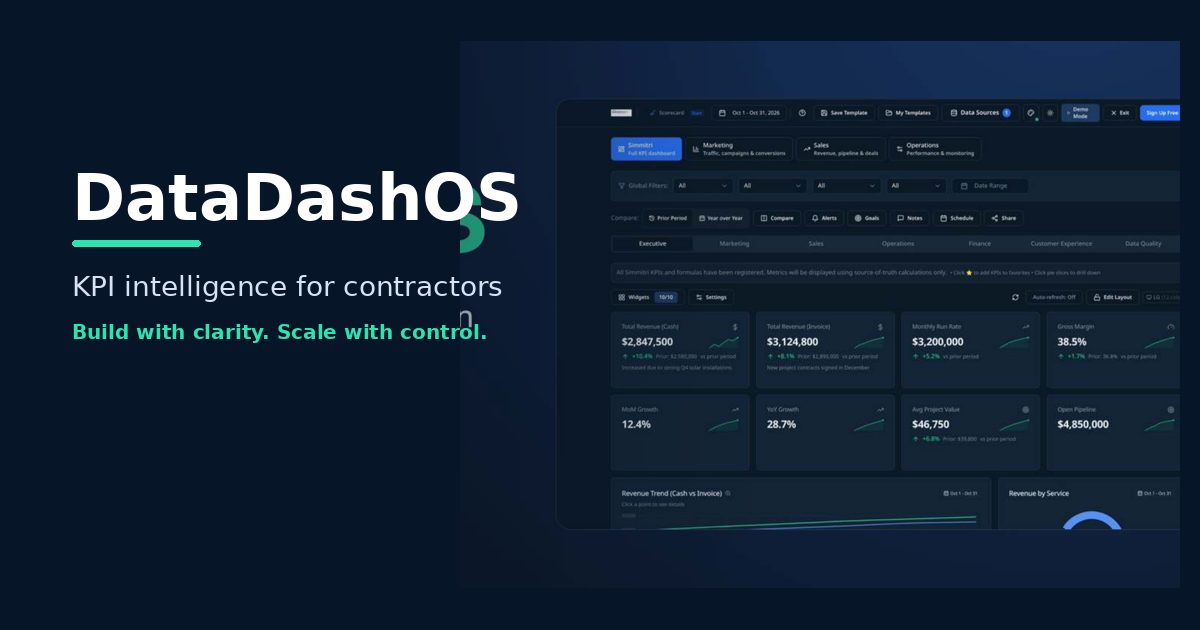
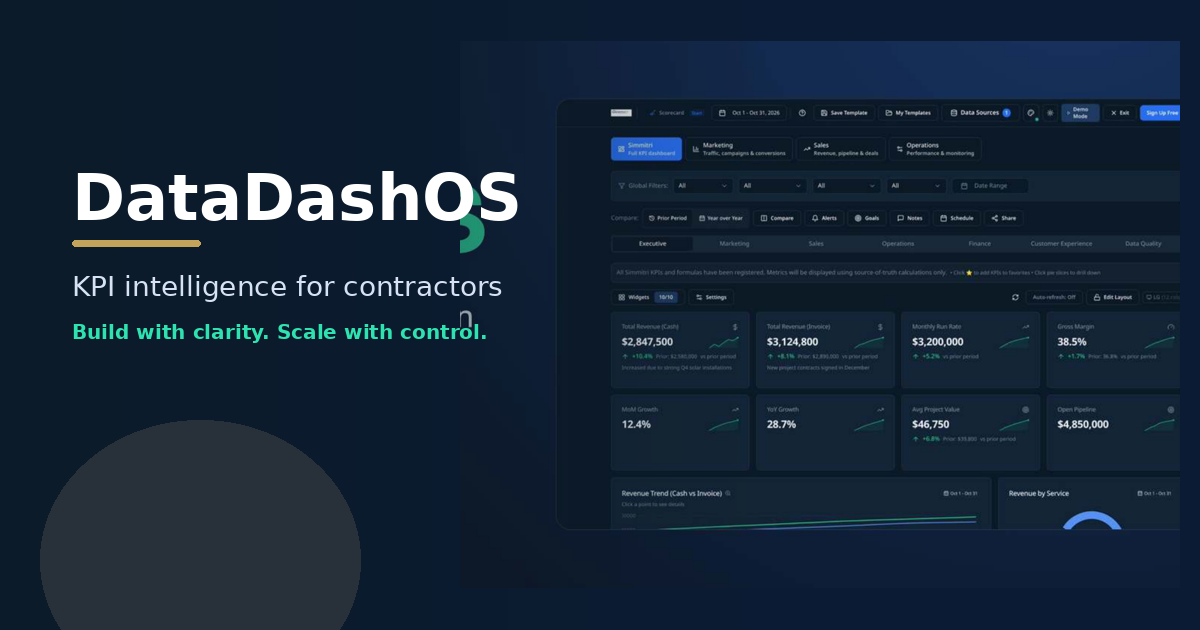
Create hybrid brand palette from deck and live gold CTAs (#4)
Combine pitch-deck navy/blue/mint with the warm gold primary
buttons and navy+blue logo treatment from the current site.

Changed region(s): [[0.0308, 0.6635, 0.3083, 1.0], [0.0617, 0.3619, 0.185, 0.3921]]

diff --git a/assets/css/styles.css b/assets/css/styles.css
@@ -1,20 +1,21 @@
 /* DataDashOS — Infrastructure Intelligence design system */
+/* Hybrid brand: deck navy/blue/mint + warm gold CTAs from the live site */
 :root {
-  --navy: #071528;
-  --navy-soft: #0d213d;
+  --navy: #0b1b33;
+  --navy-soft: #152843;
   --blue: #2f6bff;
-  --blue-bright: #4d84ff;
+  --blue-bright: #3d8bff;
   --mint: #2fe3b0;
   --mint-bright: #5ef0c6;
-  --gold: var(--mint);
-  --gold-bright: var(--mint-bright);
-  --bg: #f4f7fc;
+  --gold: #c4a35a;
+  --gold-bright: #e0c078;
+  --bg: #f5f7fb;
   --bg-elevated: rgba(255, 255, 255, 0.78);
   --bg-panel: #ffffff;
-  --text: #071528;
-  --muted: #5a6b84;
-  --line: rgba(7, 21, 40, 0.1);
-  --shadow: 0 24px 60px rgba(7, 21, 40, 0.14);
+  --text: #0b1b33;
+  --muted: #5c6b82;
+  --line: rgba(11, 27, 51, 0.1);
+  --shadow: 0 24px 60px rgba(11, 27, 51, 0.12);
   --radius: 18px;
   --header-h: 72px;
   --ease: cubic-bezier(0.22, 1, 0.36, 1);
@@ -40,9 +41,10 @@ body {
   font-family: var(--font-body);
   color: var(--text);
   background:
-    radial-gradient(1200px 600px at 10% -10%, rgba(47, 107, 255, 0.16), transparent 55%),
-    radial-gradient(900px 500px at 90% 0%, rgba(47, 227, 176, 0.14), transparent 50%),
-    linear-gradient(180deg, #e8eef8 0%, var(--bg) 28%, #f7fafc 100%);
+    radial-gradient(1200px 600px at 10% -10%, rgba(61, 139, 255, 0.14), transparent 55%),
+    radial-gradient(900px 500px at 92% 0%, rgba(196, 163, 90, 0.16), transparent 50%),
+    radial-gradient(700px 420px at 70% 20%, rgba(47, 227, 176, 0.08), transparent 55%),
+    linear-gradient(180deg, #eef3fa 0%, var(--bg) 28%, #f8fafc 100%);
   line-height: 1.65;
   min-height: 100vh;
   overflow-x: hidden;
@@ -141,7 +143,7 @@ a:hover {
 
 .logo {
   font-family: var(--font-display);
-  font-weight: 650;
+  font-weight: 800;
   font-size: 1.45rem;
   letter-spacing: -0.02em;
   color: var(--navy);
@@ -152,7 +154,7 @@ a:hover {
 }
 
 .logo span {
-  color: var(--mint);
+  color: var(--blue);
 }
 
 .nav {
@@ -229,8 +231,8 @@ a:hover {
 
 /* ——— Buttons ——— */
 .btn {
-  --btn-bg: var(--blue);
-  --btn-fg: #fff;
+  --btn-bg: var(--gold);
+  --btn-fg: var(--navy);
   position: relative;
   display: inline-flex;
   align-items: center;
@@ -248,14 +250,14 @@ a:hover {
   text-decoration: none;
   cursor: pointer;
   overflow: hidden;
-  box-shadow: 0 10px 28px rgba(47, 107, 255, 0.32);
+  box-shadow: 0 10px 28px rgba(196, 163, 90, 0.3);
   transition: transform 0.25s var(--ease), box-shadow 0.25s var(--ease), background 0.25s var(--ease);
 }
 
 .btn:hover {
   color: var(--btn-fg);
   transform: translateY(-2px);
-  box-shadow: 0 16px 34px rgba(47, 107, 255, 0.4);
+  box-shadow: 0 16px 34px rgba(196, 163, 90, 0.38);
 }
 
 .btn:active {
@@ -406,12 +408,12 @@ a:hover {
   font-weight: 800;
   letter-spacing: -0.04em;
   line-height: 0.95;
-  color: var(--blue-bright);
+  color: var(--navy);
   margin-bottom: 18px;
 }
 
 .brand-mark span {
-  color: var(--mint);
+  color: var(--blue);
 }
 
 .hero-copy h1 {
@@ -426,7 +428,7 @@ a:hover {
 }
 
 .hero-copy h1 .gold-word {
-  background: linear-gradient(120deg, var(--mint-bright), var(--mint));
+  background: linear-gradient(120deg, var(--gold-bright), var(--gold));
   -webkit-background-clip: text;
   background-clip: text;
   color: transparent;
@@ -1516,8 +1518,12 @@ section {
 
 .product-frame {
   padding: 10px;
-  background: linear-gradient(145deg, rgba(7, 21, 40, 0.92), rgba(15, 40, 72, 0.88));
-  border: 1px solid rgba(77, 132, 255, 0.25);
+  background:
+    linear-gradient(145deg, rgba(11, 27, 51, 0.96), rgba(21, 40, 67, 0.9));
+  border: 1px solid rgba(196, 163, 90, 0.28);
+  box-shadow:
+    0 24px 60px rgba(11, 27, 51, 0.22),
+    inset 0 1px 0 rgba(255, 255, 255, 0.06);
 }
 
 .product-frame .shot-frame {

diff --git a/index.html b/index.html
@@ -7,7 +7,7 @@
   <meta name="description" content="DataDashOS is the KPI intelligence and AI orchestration layer for contractor businesses: shared KPIs, connected data, weekly AI reviews, and owned actions.">
   <meta name="robots" content="index, follow, max-image-preview:large, max-snippet:-1">
   <meta name="author" content="Simmitri, Inc.">
-  <meta name="theme-color" content="#071528">
+  <meta name="theme-color" content="#0B1B33">
   <link rel="canonical" href="https://simmitri-inc.github.io/datadashos-site/">
   <link rel="alternate" type="application/rss+xml" title="DataDashOS updates" href="./rss.xml">
 
